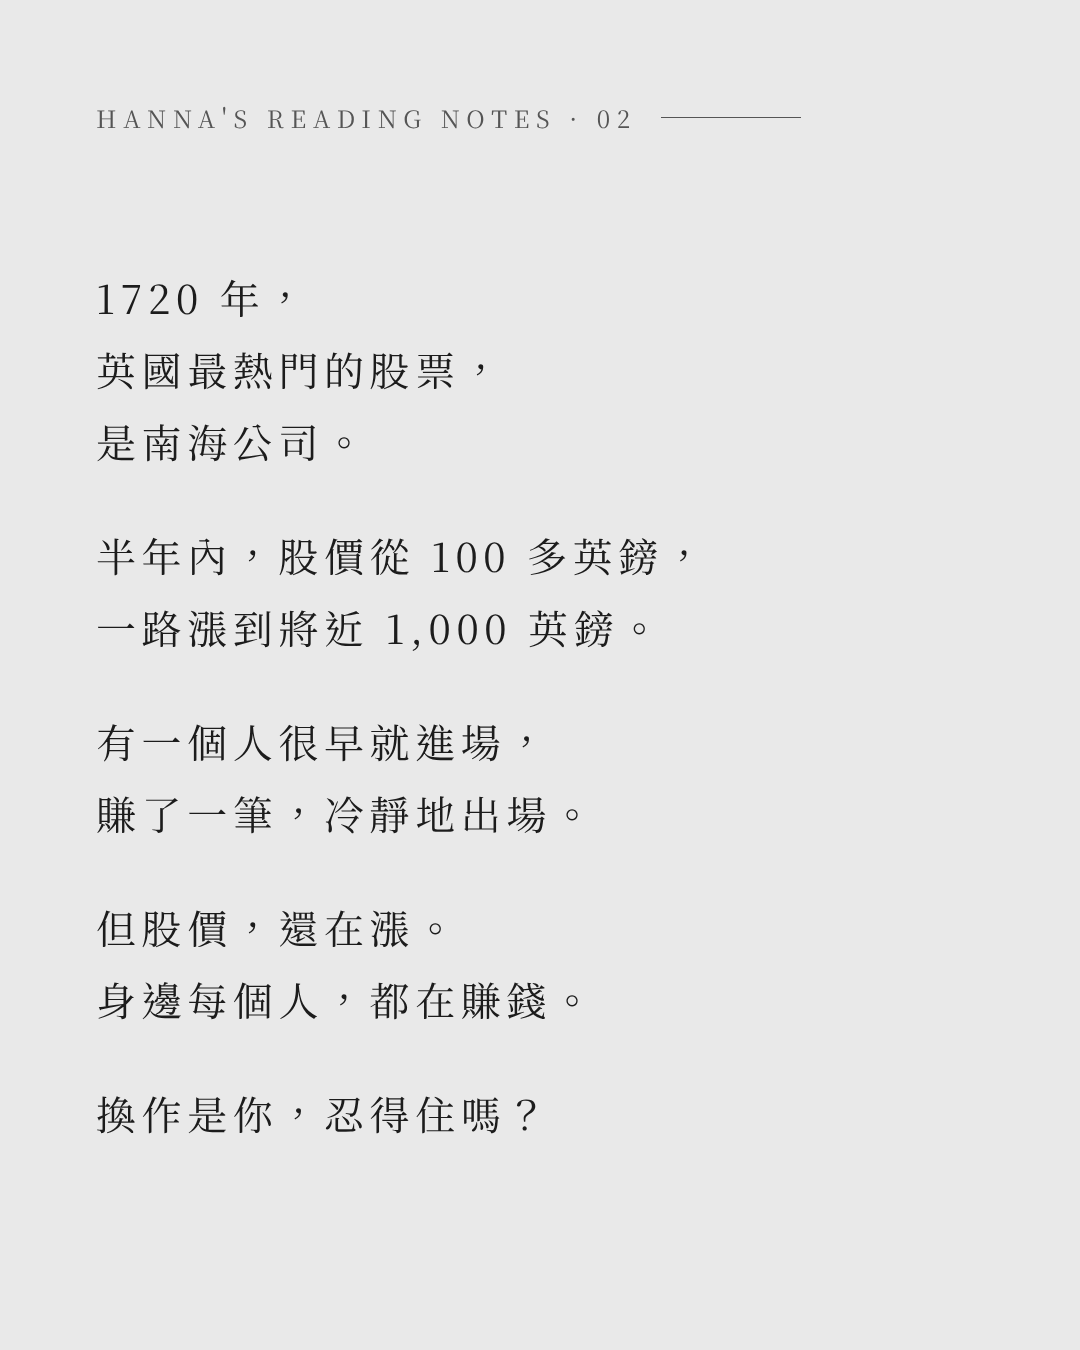
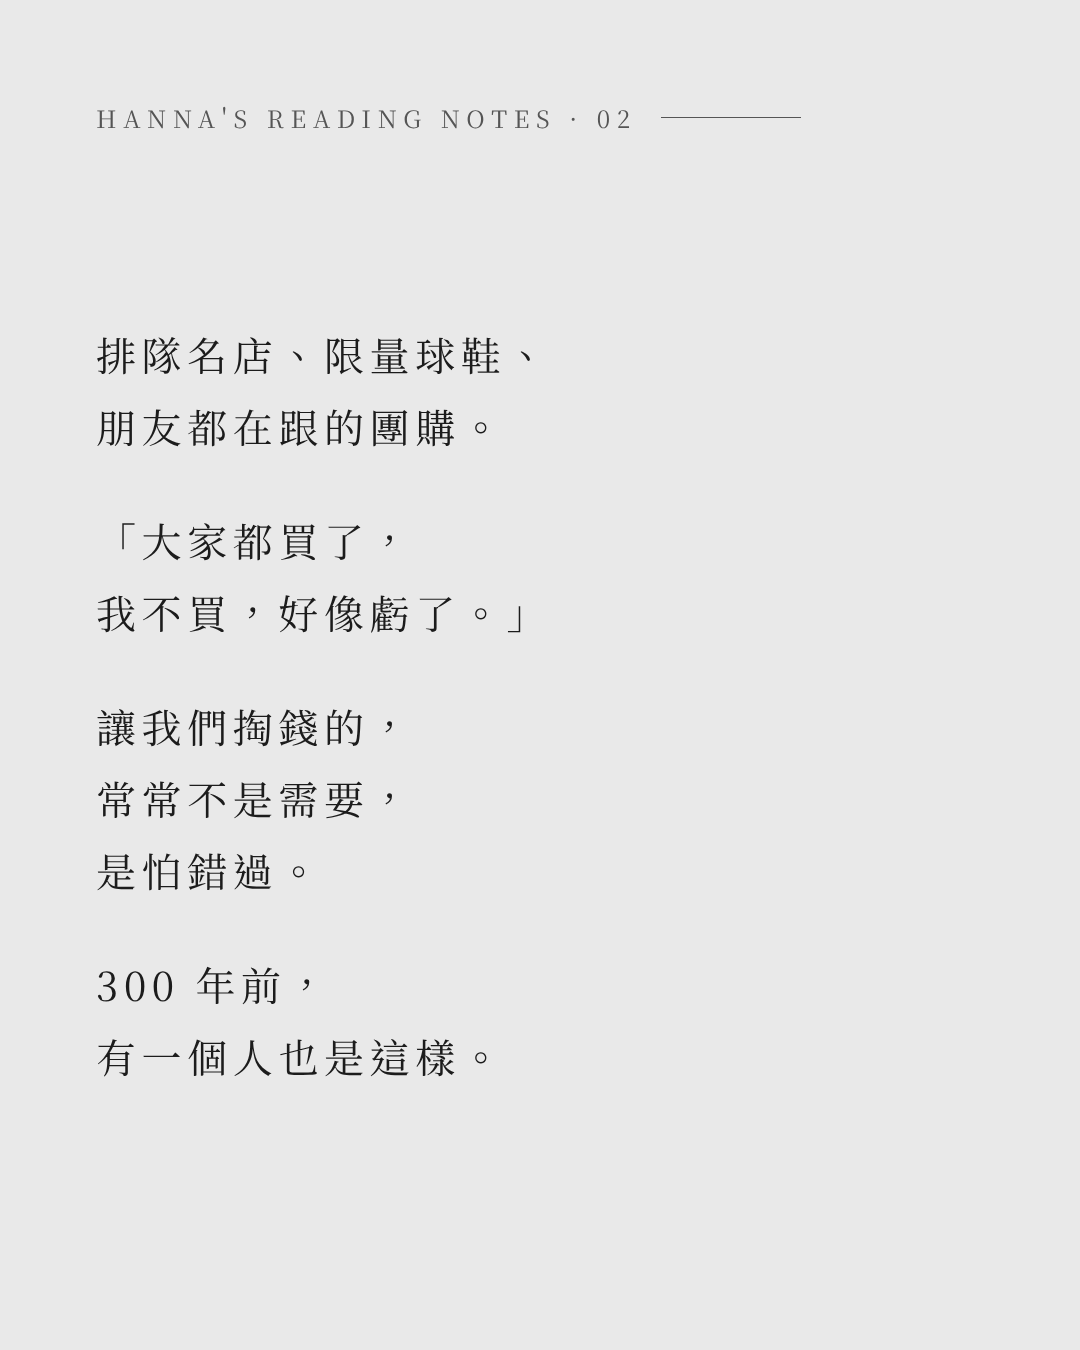
錯失恐懼輪播：生活共鳴頁移到第 2 張
Claude-Session: https://claude.ai/code/session_01AFjNkU8XspDCm6xvkskaQj

diff --git a/IP經營/輪播_錯失恐懼/slides.html b/IP經營/輪播_錯失恐懼/slides.html
@@ -58,6 +58,13 @@
 </section>
 
 <section class="slide"><div class="body">
+  <p>排隊名店、限量球鞋、<br>朋友都在跟的團購。</p>
+  <p>「大家都買了，<br>我不買，好像虧了。」</p>
+  <p>讓我們掏錢的，<br>常常不是需要，<br>是怕錯過。</p>
+  <p>300 年前，<br>有一個人也是這樣。</p>
+</div></section>
+
+<section class="slide"><div class="body">
   <p>1720 年，<br>英國最熱門的股票，<br>是南海公司。</p>
   <p>半年內，股價從 100 多英鎊，<br>一路漲到將近 1,000 英鎊。</p>
   <p>有一個人很早就進場，<br>賺了一筆，冷靜地出場。</p>
@@ -71,13 +78,6 @@
   <p>他賠掉了大約 2 萬英鎊。</p>
   <p>這個人，是牛頓。<br><span class="en">Isaac Newton</span>。</p>
   <p>相傳他事後說：<br>「我能算出天體的運行，<br>卻算不出人性的瘋狂。」</p>
-</div></section>
-
-<section class="slide"><div class="body">
-  <p>但這件事，<br>不只發生在牛頓身上。</p>
-  <p>排隊名店、限量球鞋、<br>朋友都在跟的團購。</p>
-  <p>「大家都買了，<br>我不買，好像虧了。」</p>
-  <p>讓我們掏錢的，<br>常常不是需要，<br>是怕錯過。</p>
 </div></section>
 
 <section class="slide"><div class="body">

diff --git a/IP經營/輪播貼文_錯失恐懼.md b/IP經營/輪播貼文_錯失恐懼.md
@@ -9,6 +9,12 @@
 賣太早，又追回去。
 有個人因為這樣，賠了大約 2 萬英鎊。
 
+排隊名店、限量球鞋、朋友都在跟的團購，
+「大家都買了，我不買，好像虧了。」
+讓我們掏錢的，常常不是需要，是怕錯過。
+
+300 年前，有一個人也是這樣。
+
 1720 年，英國最熱門的股票是南海公司。
 半年內，股價從 100 多英鎊，
 一路漲到將近 1,000 英鎊。
